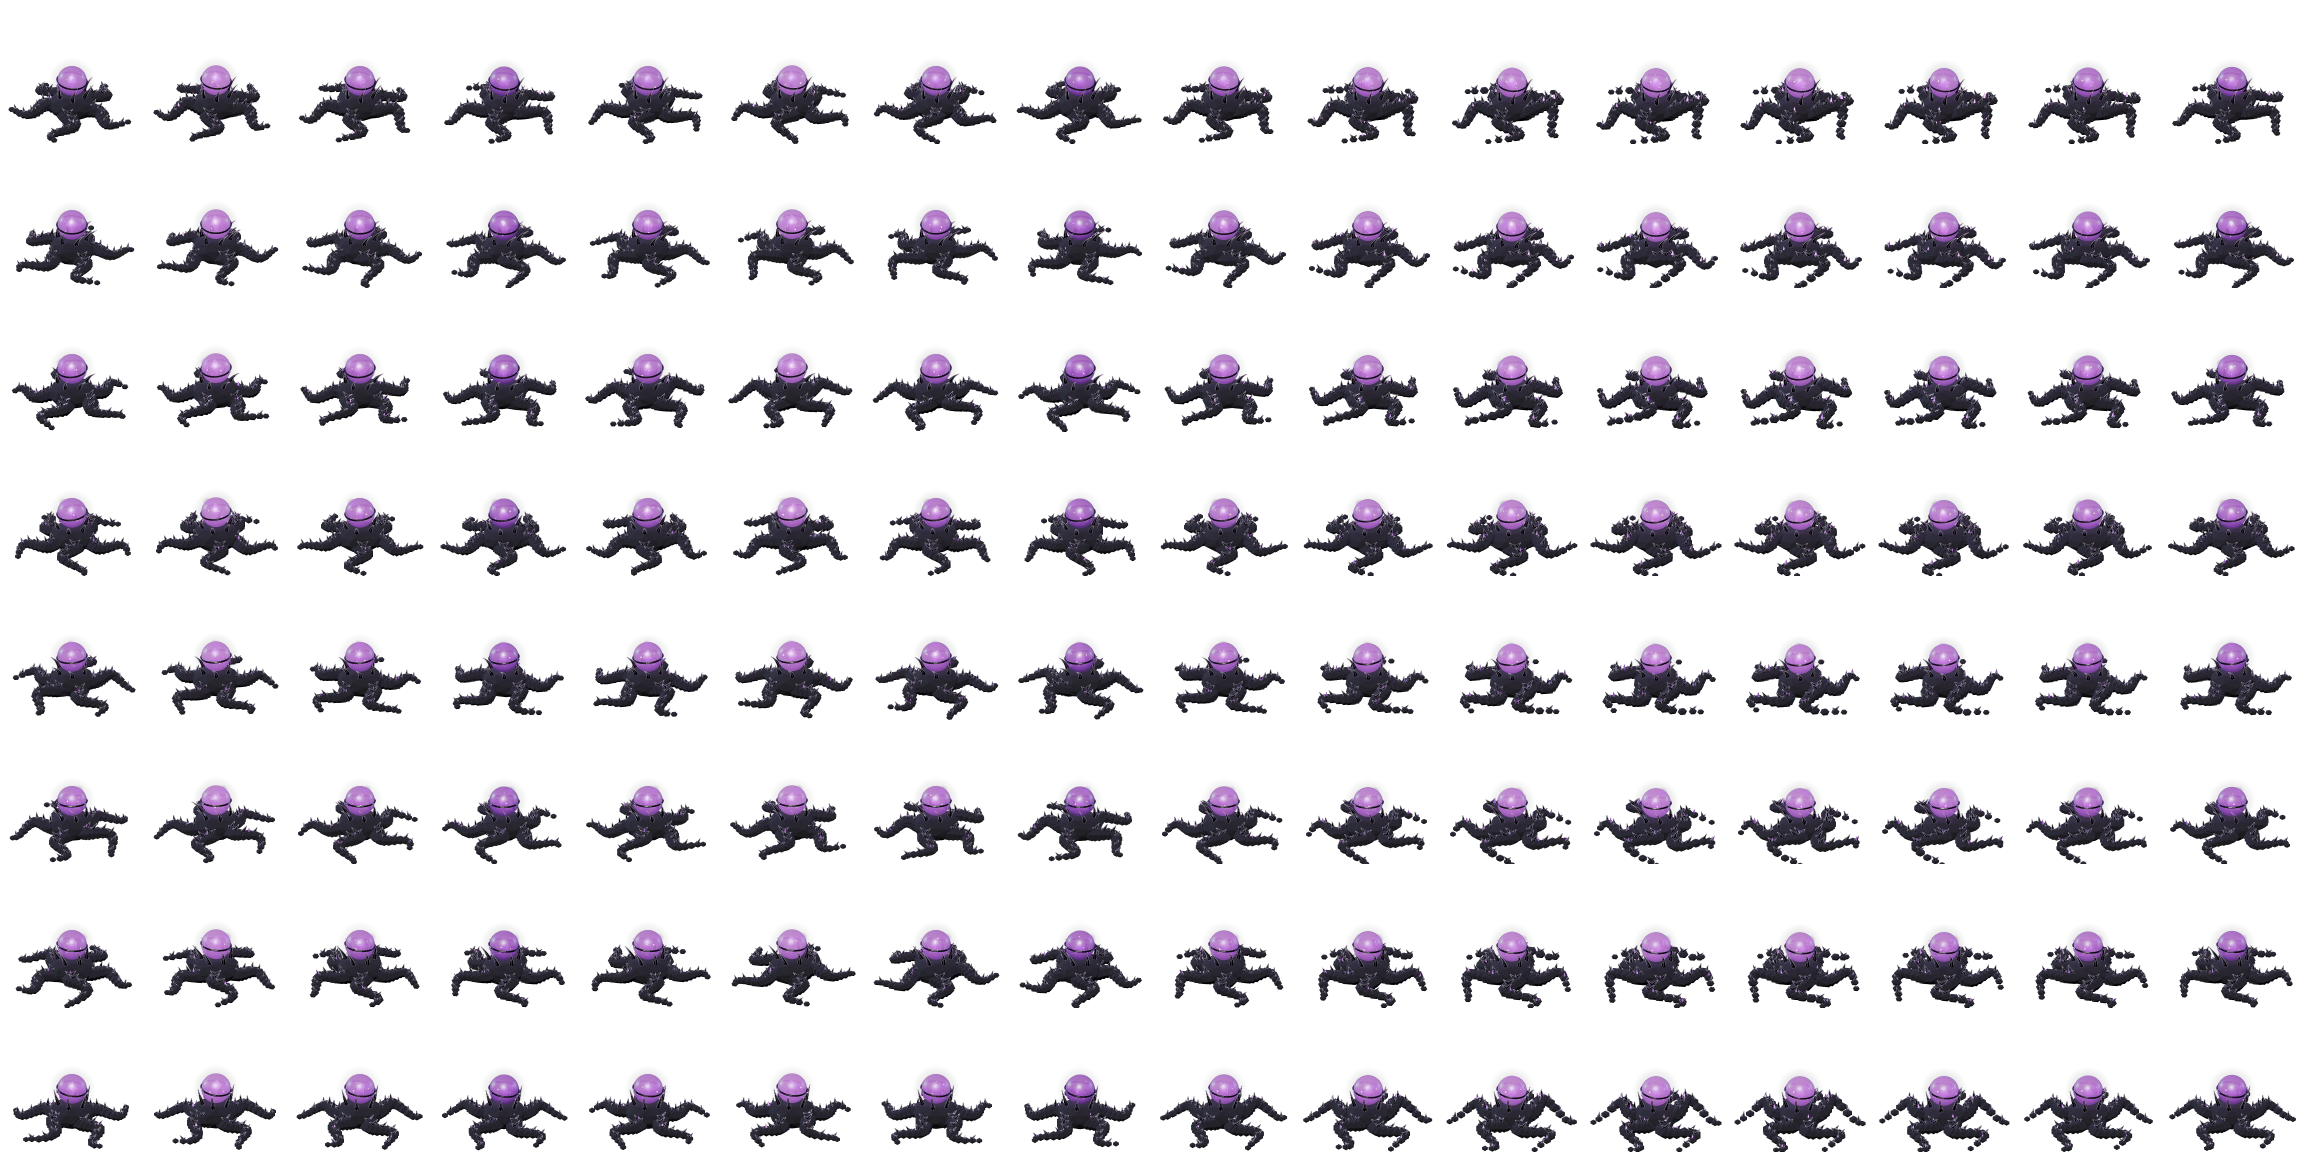
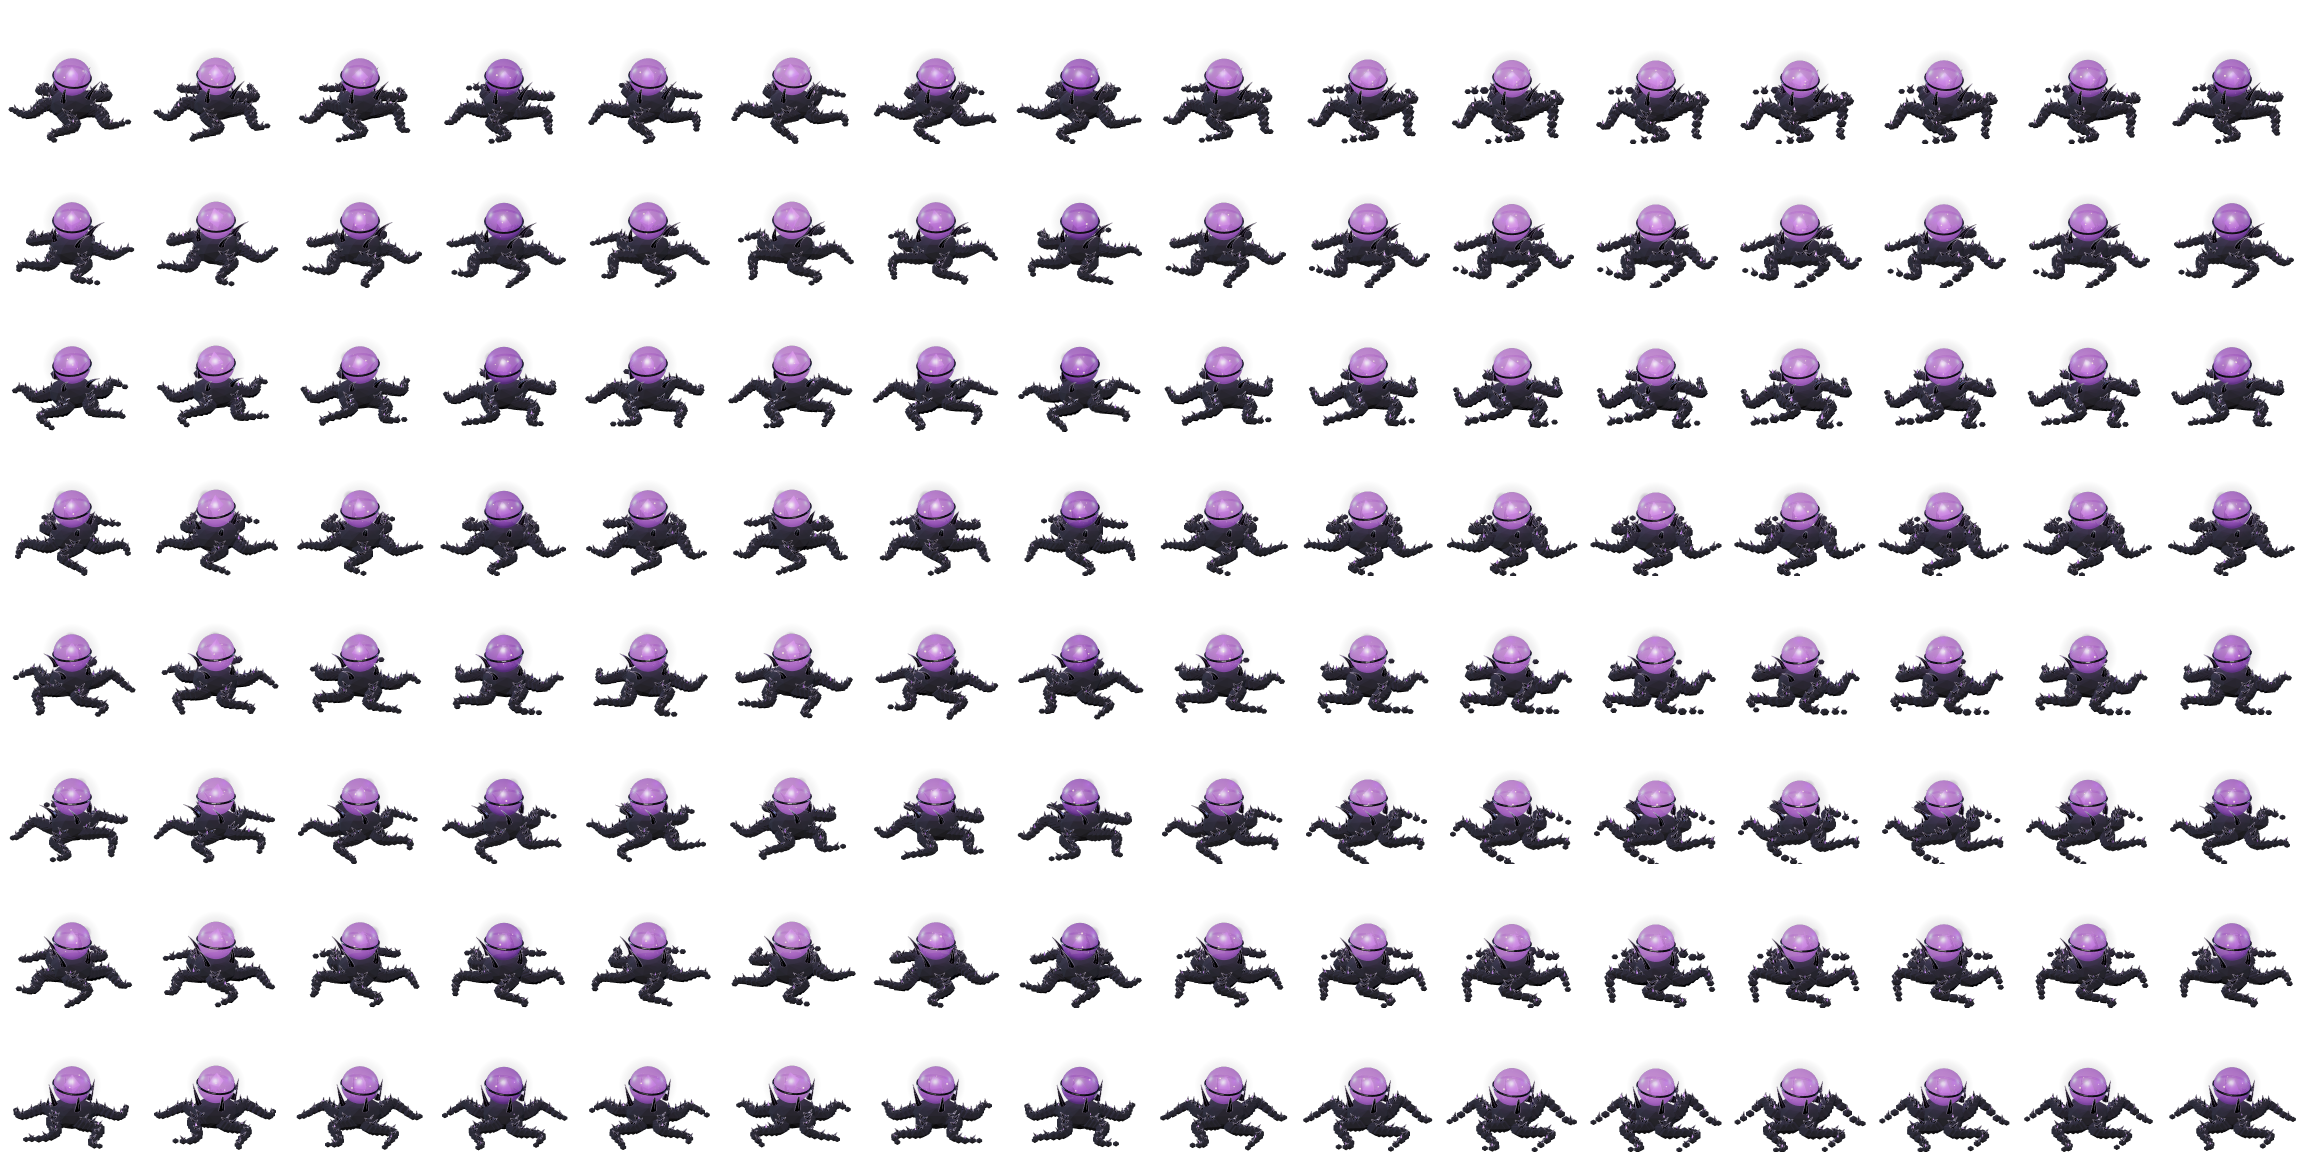
Voidstar: the bigger orb and diamond held up by four thick claws (design No. 637)
Claude-Session: https://claude.ai/code/session_0115DZYYhipQqSk6LHvQcEfz

diff --git a/game.html b/game.html
@@ -1363,12 +1363,12 @@ function _showError(msg) {
 // Script files that failed to download. A missing file raises no error of its
 // own — only the "Can't find variable" from whatever needed it — so the load
 // failure is caught here, on its way down (capture phase).
-// THE BUILD. Every script URL below carries ?v=2026-10-17g, so a new deploy
+// THE BUILD. Every script URL below carries ?v=2026-10-17h, so a new deploy
 // fetches a matching set: REPORTED, an iPad ran the new js/indexart.js against
 // an old cached js/config.js ("Attempted to assign to readonly property").
 // Change this, the ?v= on every script tag and BUILD_VERSION in js/config.js
 // together (tests/boot.js checks they agree).
-window.__PAGE_BUILD = "2026-10-17g";
+window.__PAGE_BUILD = "2026-10-17h";
 window.__bootFailed = [];
 window.addEventListener("error", function (e) {
     var t = e && e.target;
@@ -1404,53 +1404,53 @@ if (!CanvasRenderingContext2D.prototype.roundRect) {
 </script>
 
 <!-- Game scripts — load order matters (globals first, logic last) -->
-<script src="js/config.js?v=2026-10-17g"></script>
-<script src="js/icons.js?v=2026-10-17g"></script>
-<script src="js/rng.js?v=2026-10-17g"></script>
-<script src="js/traits.js?v=2026-10-17g"></script>
-<script src="js/elements.js?v=2026-10-17g"></script>
-<script src="js/combat.js?v=2026-10-17g"></script>
-<script src="js/species.js?v=2026-10-17g"></script>
-<script src="js/levels.js?v=2026-10-17g"></script>
-<script src="js/predator_randomizer.js?v=2026-10-17g"></script>
-<script src="js/mass.js?v=2026-10-17g"></script>
-<script src="js/infest.js?v=2026-10-17g"></script>
-<script src="js/power.js?v=2026-10-17g"></script>
-<script src="js/save.js?v=2026-10-17g"></script>
-<script src="js/camp.js?v=2026-10-17g"></script>
-<script src="js/wavedata.js?v=2026-10-17g"></script>
-<script src="js/helpers.js?v=2026-10-17g"></script>
-<script src="js/predator.js?v=2026-10-17g"></script>
-<script src="js/abilities.js?v=2026-10-17g"></script>
-<script src="js/world.js?v=2026-10-17g"></script>
-<script src="js/commands.js?v=2026-10-17g"></script>
-<script src="js/npc.js?v=2026-10-17g"></script>
-<script src="js/codex.js?v=2026-10-17g"></script>
-<script src="js/draw.js?v=2026-10-17g"></script>
-<script src="js/beetle3d.js?v=2026-10-17g"></script>
-<script src="js/bugs3d.js?v=2026-10-17g"></script>
-<script src="js/ui.js?v=2026-10-17g"></script>
-<script src="js/waves.js?v=2026-10-17g"></script>
-<script src="js/drops.js?v=2026-10-17g"></script>
-<script src="js/clone.js?v=2026-10-17g"></script>
-<script src="js/clonework.js?v=2026-10-17g"></script>
-<script src="js/broods.js?v=2026-10-17g"></script>
-<script src="js/raids.js?v=2026-10-17g"></script>
-<script src="js/ultra.js?v=2026-10-17g"></script>
-<script src="js/formations.js?v=2026-10-17g"></script>
-<script src="js/breakout.js?v=2026-10-17g"></script>
-<script src="js/nightraids.js?v=2026-10-17g"></script>
-<script src="js/bonds.js?v=2026-10-17g"></script>
-<script src="js/autoplay.js?v=2026-10-17g"></script>
-<script src="js/indexart.js?v=2026-10-17g"></script>
-<script src="js/modules.js?v=2026-10-17g"></script>
-<script src="js/shieldcells.js?v=2026-10-17g"></script>
-<script src="js/evolution.js?v=2026-10-17g"></script>
-<script src="js/buildmenu.js?v=2026-10-17g"></script>
-<script src="js/input.js?v=2026-10-17g"></script>
-<script src="js/game.js?v=2026-10-17g"></script>
-<script src="js/tutorial.js?v=2026-10-17g"></script>
-<script src="js/dev.js?v=2026-10-17g"></script>
+<script src="js/config.js?v=2026-10-17h"></script>
+<script src="js/icons.js?v=2026-10-17h"></script>
+<script src="js/rng.js?v=2026-10-17h"></script>
+<script src="js/traits.js?v=2026-10-17h"></script>
+<script src="js/elements.js?v=2026-10-17h"></script>
+<script src="js/combat.js?v=2026-10-17h"></script>
+<script src="js/species.js?v=2026-10-17h"></script>
+<script src="js/levels.js?v=2026-10-17h"></script>
+<script src="js/predator_randomizer.js?v=2026-10-17h"></script>
+<script src="js/mass.js?v=2026-10-17h"></script>
+<script src="js/infest.js?v=2026-10-17h"></script>
+<script src="js/power.js?v=2026-10-17h"></script>
+<script src="js/save.js?v=2026-10-17h"></script>
+<script src="js/camp.js?v=2026-10-17h"></script>
+<script src="js/wavedata.js?v=2026-10-17h"></script>
+<script src="js/helpers.js?v=2026-10-17h"></script>
+<script src="js/predator.js?v=2026-10-17h"></script>
+<script src="js/abilities.js?v=2026-10-17h"></script>
+<script src="js/world.js?v=2026-10-17h"></script>
+<script src="js/commands.js?v=2026-10-17h"></script>
+<script src="js/npc.js?v=2026-10-17h"></script>
+<script src="js/codex.js?v=2026-10-17h"></script>
+<script src="js/draw.js?v=2026-10-17h"></script>
+<script src="js/beetle3d.js?v=2026-10-17h"></script>
+<script src="js/bugs3d.js?v=2026-10-17h"></script>
+<script src="js/ui.js?v=2026-10-17h"></script>
+<script src="js/waves.js?v=2026-10-17h"></script>
+<script src="js/drops.js?v=2026-10-17h"></script>
+<script src="js/clone.js?v=2026-10-17h"></script>
+<script src="js/clonework.js?v=2026-10-17h"></script>
+<script src="js/broods.js?v=2026-10-17h"></script>
+<script src="js/raids.js?v=2026-10-17h"></script>
+<script src="js/ultra.js?v=2026-10-17h"></script>
+<script src="js/formations.js?v=2026-10-17h"></script>
+<script src="js/breakout.js?v=2026-10-17h"></script>
+<script src="js/nightraids.js?v=2026-10-17h"></script>
+<script src="js/bonds.js?v=2026-10-17h"></script>
+<script src="js/autoplay.js?v=2026-10-17h"></script>
+<script src="js/indexart.js?v=2026-10-17h"></script>
+<script src="js/modules.js?v=2026-10-17h"></script>
+<script src="js/shieldcells.js?v=2026-10-17h"></script>
+<script src="js/evolution.js?v=2026-10-17h"></script>
+<script src="js/buildmenu.js?v=2026-10-17h"></script>
+<script src="js/input.js?v=2026-10-17h"></script>
+<script src="js/game.js?v=2026-10-17h"></script>
+<script src="js/tutorial.js?v=2026-10-17h"></script>
+<script src="js/dev.js?v=2026-10-17h"></script>
 <script>
 // ── BOOT CHECK ────────────────────────────────────────────
 // Every file above must have arrived and run before init.js starts the game.
@@ -1503,7 +1503,7 @@ if (!CanvasRenderingContext2D.prototype.roundRect) {
     document.body.appendChild(d);
 })();
 </script>
-<script src="js/init.js?v=2026-10-17g"></script>
+<script src="js/init.js?v=2026-10-17h"></script>
 
 </body>
 </html>

diff --git a/design/evolutions/bake.js b/design/evolutions/bake.js
@@ -13,8 +13,8 @@ const core = fs.readFileSync(path.join(__dirname, 'forms-core.js'), 'utf8');
 // forms2.js (helpers + Nos. 33-52), forms3.js (sentinels, robots, drones, Nos. 53-72) and forms4.js (ancient relics, Nos. 73-92), forms5.js (the corroded crystal, Nos. 93-103), forms6.js (the flux brawler, Nos. 104-115), forms7.js (the core mage, Nos. 116-125), forms8.js (the toxic brawler, Nos. 126-141), forms9.js (the core worker, Nos. 142-144), forms10.js (the ice maw, Nos. 145-157), forms11-13.js (the ammonite in its jar, Nos. 158-222), forms14.js (cloaks and pyramids, Nos. 223-331), forms15.js (the rock porcupine, Nos. 332-361) register FORMS2[no].
 const f2src = fs.readFileSync(path.join(__dirname, 'forms2.js'), 'utf8'), f3src = fs.readFileSync(path.join(__dirname, 'forms3.js'), 'utf8'), f4src = fs.readFileSync(path.join(__dirname, 'forms4.js'), 'utf8'), f5src = fs.readFileSync(path.join(__dirname, 'forms5.js'), 'utf8'), f6src = fs.readFileSync(path.join(__dirname, 'forms6.js'), 'utf8'), f7src = fs.readFileSync(path.join(__dirname, 'forms7.js'), 'utf8'), f8src = fs.readFileSync(path.join(__dirname, 'forms8.js'), 'utf8'), f9src = fs.readFileSync(path.join(__dirname, 'forms9.js'), 'utf8'), f10src = fs.readFileSync(path.join(__dirname, 'forms10.js'), 'utf8'), f11src = fs.readFileSync(path.join(__dirname, 'forms11.js'), 'utf8'), f12src = fs.readFileSync(path.join(__dirname, 'forms12.js'), 'utf8'), f13src = fs.readFileSync(path.join(__dirname, 'forms13.js'), 'utf8'), f14src = fs.readFileSync(path.join(__dirname, 'forms14.js'), 'utf8'), f15src = fs.readFileSync(path.join(__dirname, 'forms15.js'), 'utf8'), f16src = fs.readFileSync(path.join(__dirname, 'forms16.js'), 'utf8'), f17src = fs.readFileSync(path.join(__dirname, 'forms17.js'), 'utf8'), f18src = fs.readFileSync(path.join(__dirname, 'forms18.js'), 'utf8'), f19src = fs.readFileSync(path.join(__dirname, 'forms19.js'), 'utf8'), f20src = fs.readFileSync(path.join(__dirname, 'forms20.js'), 'utf8'), f21src = fs.readFileSync(path.join(__dirname, 'forms21.js'), 'utf8'), f22src = fs.readFileSync(path.join(__dirname, 'forms22.js'), 'utf8'), f23src = fs.readFileSync(path.join(__dirname, 'forms23.js'), 'utf8'), f24src = fs.readFileSync(path.join(__dirname, 'forms24.js'), 'utf8');
 const JOBS = [
-  // No. 639 (the game sprite of 635), the flux ("void") mage: the dark spined starfish carrying an orb of violet fluid with a diamond in it; the diamond turns and bubbles rise. Its action frames flare the orb, up and back.
-  { id: 'voidstar', form: 639, color: '#9933ff', idleAct: 0, action: [0, 1.0], pulse: true, keepSprites: true, glowNormal: true },
+  // No. 640 (the game sprite of 637), the flux ("void") mage: the dark spined starfish carrying an orb of violet fluid with a diamond in it; the diamond turns and bubbles rise. Its action frames flare the orb, up and back.
+  { id: 'voidstar', form: 640, color: '#9933ff', idleAct: 0, action: [0, 1.0], pulse: true, keepSprites: true, glowNormal: true },
   // The electric and fire designs swapped. The ring drone (No. 90, the old fire mage) now stands in for the electric brawler, in electric yellow: a placeholder.
   { id: 'voltring', form: 90, color: '#ffee33', idleAct: 0.1, action: [0.6, 1.0] },
   // The hooded pyramid with the hovering gems (No. 391, the old electric brawler) is now the fire mage, in fire red.

diff --git a/js/evolution.js b/js/evolution.js
@@ -143,10 +143,10 @@ const EVOLUTIONS = {
     // LEGACY: the first flux mage. New evolutions use the Voidstar; a follower already evolved into this keeps it.
     serpent:{ id: "serpent", legacy: true, name: "SERPENT", element: "flux", role: "sniper", move: "SINGULARITY SHOT", sheet: "img/evo/serpent.png",
               cell: 144, anchor: [72, 114.2], core: [72, 61], noGlow: true, color: "#bb66ff" },
-    // The FLUX ("void") MAGE, design No. 635: a dark spined starfish carrying an orb of violet fluid with a diamond floating in it. The diamond
+    // The FLUX ("void") MAGE, design No. 637: a dark spined starfish carrying a big orb of violet fluid with a diamond floating in it, held up by four thick claws. The diamond
     // turns and bubbles rise, so its sheet carries its own light.
     voidstar:{ id: "voidstar", name: "VOIDSTAR", element: "flux", role: "sniper", move: "SINGULARITY SHOT", sheet: "img/evo/voidstar.png",
-              cell: 144, anchor: [72, 114.2], core: [72, 80.8], noGlow: true, color: "#bb66ff" },
+              cell: 144, anchor: [72, 114.2], core: [72, 77], noGlow: true, color: "#bb66ff" },
     // LEGACY: the first core brawler. New evolutions use the Hammer Slug; a follower already evolved into this keeps it.
     warden: { id: "warden", legacy: true, name: "AEGIS WARDEN", element: "core",     role: "brawler", move: "AEGIS BURST",  sheet: "img/evo/warden.png",
               cell: 144, anchor: [72, 114.2], core: [72, 59], noGlow: true, color: "#33e6c4" },

diff --git a/tests/evolution.js b/tests/evolution.js
@@ -46,7 +46,7 @@ function same(a, b, m) { if (a !== b) throw new Error(`${m}: expected ${JSON.str
         mk('electric', 'sniper', 20); run(lvlUp);
         same(run('__f.evolved'), 'thunderhead', 'its form'); same(run('unitTypeLabel(__f)'), 'THUNDERHEAD', 'its tag'); ok(run('EVOLUTIONS.reaver.legacy === true'), 'the Reaver is no longer handed out');
     });
-    check('THE ASK: a FLUX SNIPER (the void mage) reaching level 20 becomes the VOIDSTAR (design No. 635, which replaced the Serpent)', () => {
+    check('THE ASK: a FLUX SNIPER (the void mage) reaching level 20 becomes the VOIDSTAR (design No. 637, which replaced the Serpent)', () => {
         mk('flux', 'sniper', 20); run(lvlUp);
         const r = run('({ evo: __f.evolved, tag: unitTypeLabel(__f) })');
         same(r.evo, 'voidstar', 'its form'); same(r.tag, 'VOIDSTAR', 'its tag'); ok(run('EVOLUTIONS.serpent.legacy === true'), 'the Serpent is no longer handed out');

diff --git a/design/evolutions/forms24.js b/design/evolutions/forms24.js
@@ -125,3 +125,6 @@ fx(638, "A smaller orb, thicker fluid, lots of bubbles and a tumbling diamond, i
 
 // The game sprite of No. 635, the flux ("void") mage.
 fx(639, "635, the game sprite.", () => _starfish(Object.assign({}, _sfo, { orb: _vo().orb })));
+
+// The game sprite of No. 637 (the bigger orb and diamond on four thick claws), the flux ("void") mage, replacing 639.
+fx(640, "637, the game sprite.", () => _starfish(Object.assign({}, _sfo, { hover: 0.78, orb: _vo({ r: 0.34, dia: 0.15, bubbles: 7, cradle: { n: 4, len: 0.34, r: 0.055, curl: 1.1 } }).orb })));

diff --git a/js/config.js b/js/config.js
@@ -4,7 +4,7 @@
 
 // The build this file belongs to — the same as window.__PAGE_BUILD and the
 // ?v= on every script tag in game.html (the boot check compares them).
-const BUILD_VERSION = "2026-10-17g";
+const BUILD_VERSION = "2026-10-17h";
 
 // ── GLOBAL ERROR DISPLAY ──────────────────────────────────
 // Lives in game.html (_showError), before any file loads. This file used to
